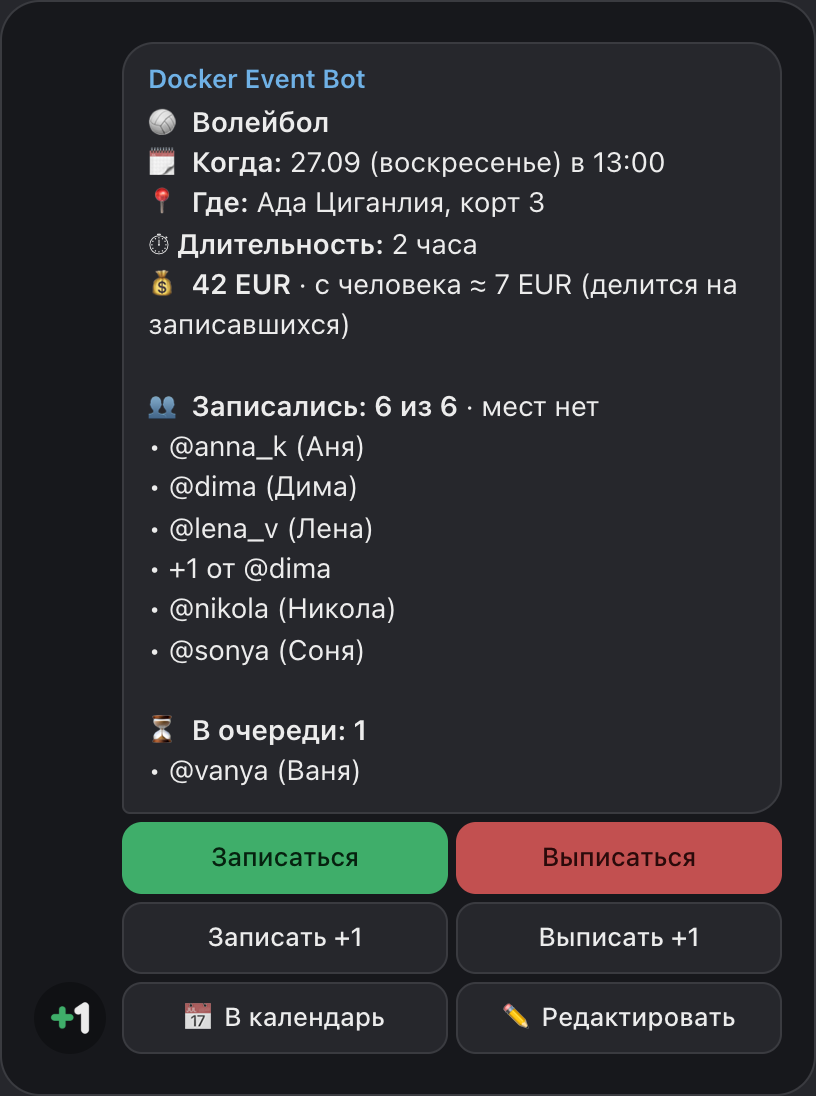
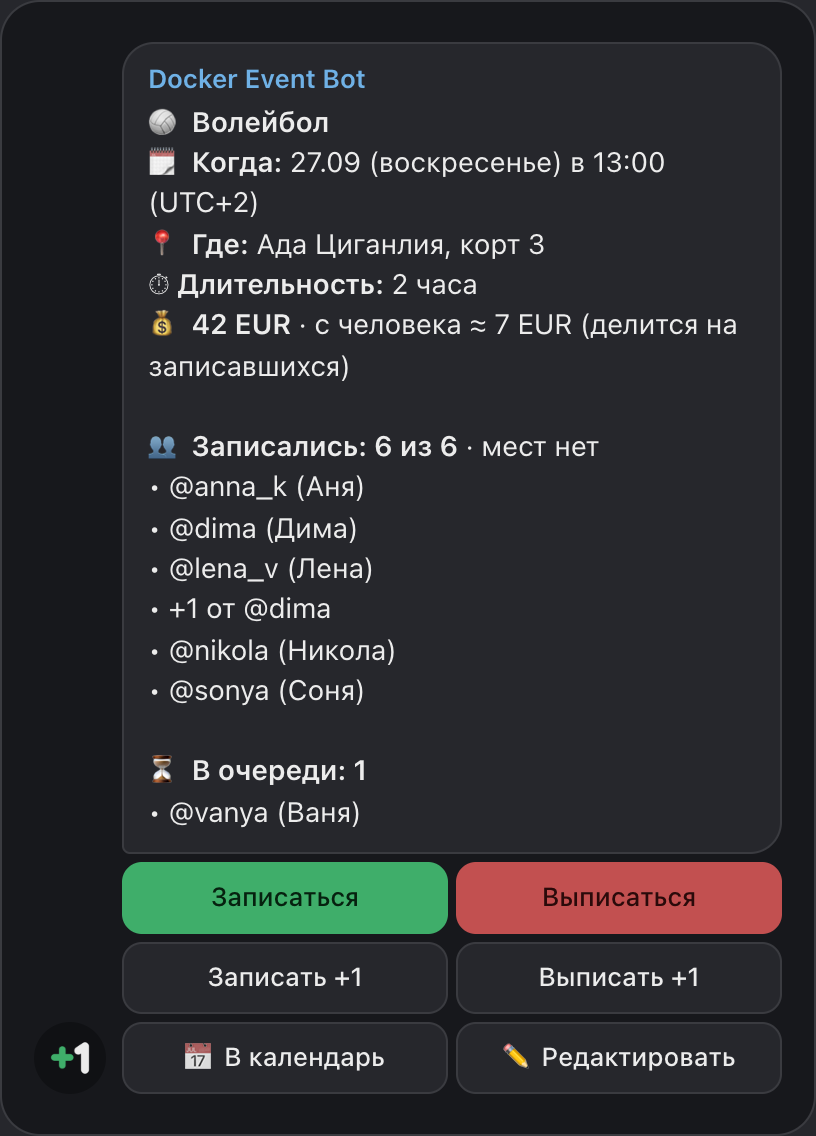
Card shows the event time zone; your own time is in the app

Changed region(s): [[0.1838, 0.062, 0.9191, 0.6204], [0.1532, 0.6515, 0.9498, 0.9617], [0.0613, 0.8996, 0.1225, 0.9617]]

diff --git a/README.fr.md b/README.fr.md
@@ -42,7 +42,7 @@ Docker Event Bot ne demande à personne de changer d’outil. Le bot publie une 
 - 🔁 **Événements réguliers** — « chaque mercredi à 20:00 » : le bot publie lui-même la nouvelle fiche à l’heure prévue. Les événements ponctuels marchent aussi.
 - 👥 **Venir avec un ami** — « Ajouter +1 » : un ami sans Telegram prend une place et compte dans la limite.
 - 📅 **Calendrier** — ajoutez l’événement à Google Agenda ou au Calendrier Apple (.ics) directement depuis la fiche.
-- 🌍 **Fuseaux horaires** — chaque événement a son fuseau, et chacun voit l’heure de début dans le sien.
+- 🌍 **Fuseaux horaires** — chaque événement a son fuseau, indiqué sur la fiche, et dans l’appli chacun voit l’heure de début dans le sien.
 - ✅ **Présence et fiabilité** — sondage « Vous y étiez ? » après l’événement et marques des admins ; les organisateurs voient qui s’est désisté à la dernière minute. Des médailles pour la présence et des séries pour chaque événement.
 - 💰 **Partage des frais (facultatif)** — indiquez la location du terrain, la fiche affiche la part par personne et la recalcule au fil des inscriptions. L’argent ne passe pas par le bot.
 - ⏱ **Durée selon le nombre (facultatif)** — plus de monde, partie plus longue : « à partir de 6 personnes — une heure, à partir de 10 — une heure et demie ». La fiche met la durée à jour au fil des inscriptions.

diff --git a/README.md b/README.md
@@ -42,7 +42,7 @@ Docker Event Bot doesn’t ask anyone to move. The bot posts an event card in yo
 - 🔁 **Recurring events** — “every Wednesday at 20:00”: the bot posts the new card on schedule by itself. One-off events work too.
 - 👥 **Bring a friend** — “Add +1”: a friend without Telegram takes a seat and is counted in the limit.
 - 📅 **Calendar** — add the event to Google Calendar or Apple Calendar (.ics) straight from the card.
-- 🌍 **Time zones** — each event has its own time zone, and everyone sees the start time in their own.
+- 🌍 **Time zones** — each event has its own time zone, shown on the card, and the app shows everyone the start time in their own.
 - ✅ **Attendance and reliability** — “Were you there?” poll after the event and admin marks; organizers see who dropped out at the last minute. Medals for showing up and streaks for every event.
 - 💰 **Cost split (optional)** — enter the court rent, the card shows the per-person share and recalculates as people sign up. Money doesn’t go through the bot.
 - ⏱ **Duration by headcount (optional)** — more people, longer game: “from 6 people — an hour, from 10 — an hour and a half”. The card updates the duration as people join.

diff --git a/README.sr.md b/README.sr.md
@@ -42,7 +42,7 @@ Docker Event Bot ne traži od nikoga da se seli. Bot objavi karticu događaja u 
 - 🔁 **Redovni događaji** — „svake srede u 20:00”: bot sam objavljuje novu karticu po rasporedu. Postoje i jednokratni događaji.
 - 👥 **Prijavi prijatelja** — „Prijavi +1”: prijatelj bez Telegrama takođe zauzima mesto i računa se u limit.
 - 📅 **Kalendar** — dodajte događaj u Google Calendar ili iPhone kalendar (.ics) direktno iz kartice.
-- 🌍 **Vremenske zone** — događaj ima svoju zonu, a vreme početka svako vidi u svojoj.
+- 🌍 **Vremenske zone** — događaj ima svoju zonu, koja piše u kartici, a u aplikaciji svako vidi vreme početka u svojoj.
 - ✅ **Dolasci i pouzdanost** — anketa „Da li si bio/la?” posle događaja i oznake admina; organizator vidi ko se odjavio u poslednjem trenutku. Medalje za dolaske i serije — za svaki događaj.
 - 💰 **Podela troškova (po želji)** — unesite cenu terena, kartica pokazuje deo po osobi i preračunava ga kako se ljudi prijavljuju. Novac ne ide preko bota.
 - ⏱ **Trajanje po broju učesnika (po želji)** — više ljudi, duža igra: „od 6 ljudi — sat, od 10 — sat i po”. Kartica preračunava trajanje kako se ljudi prijavljuju.
